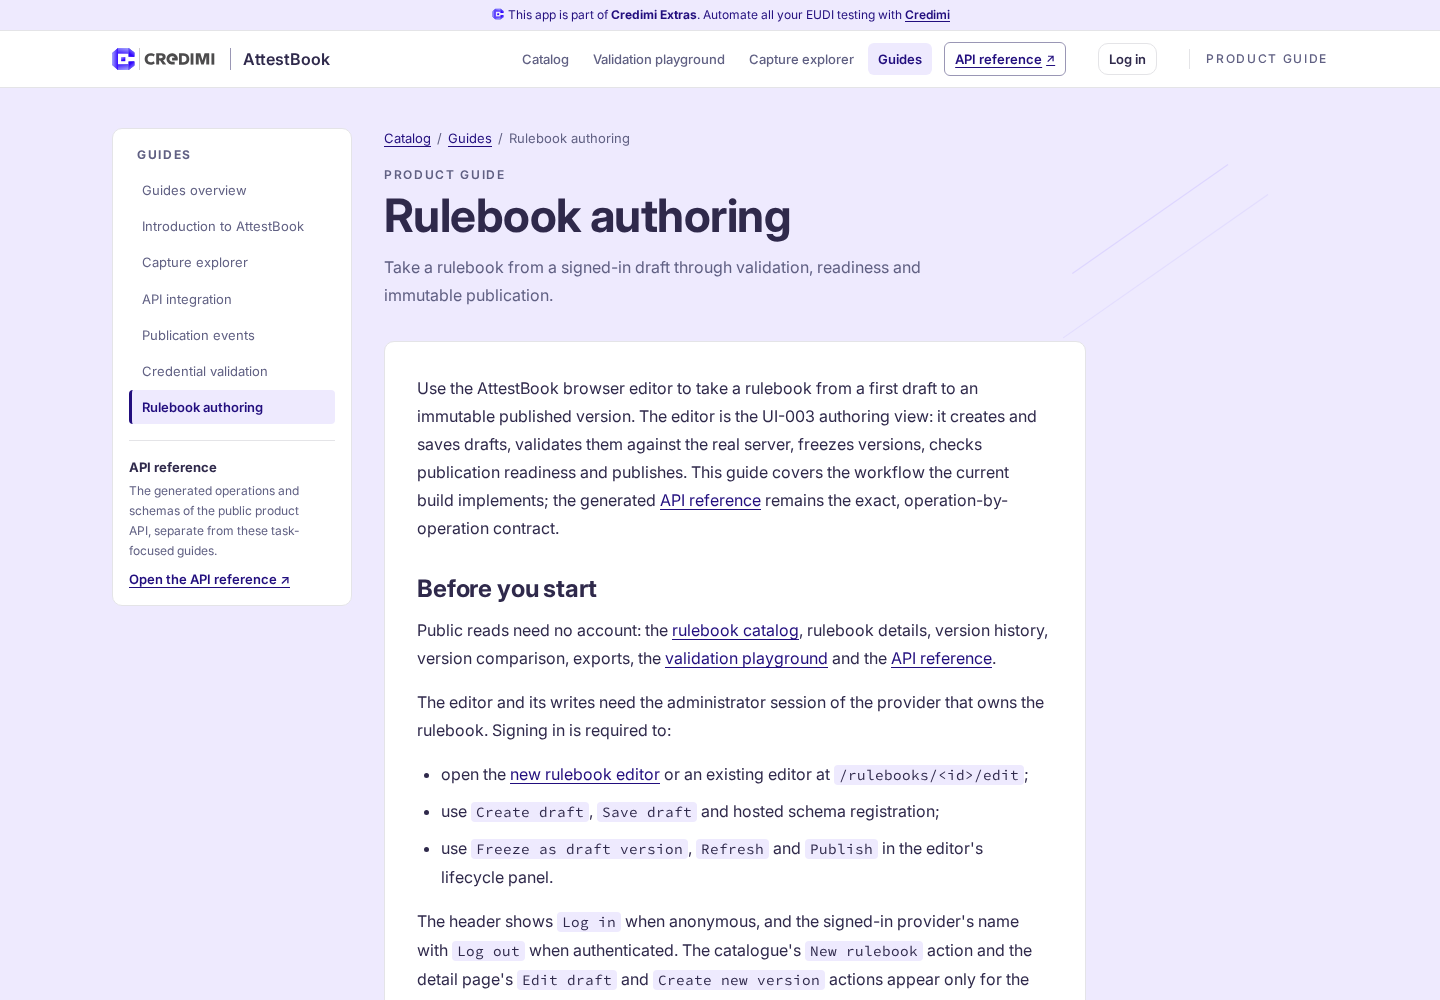
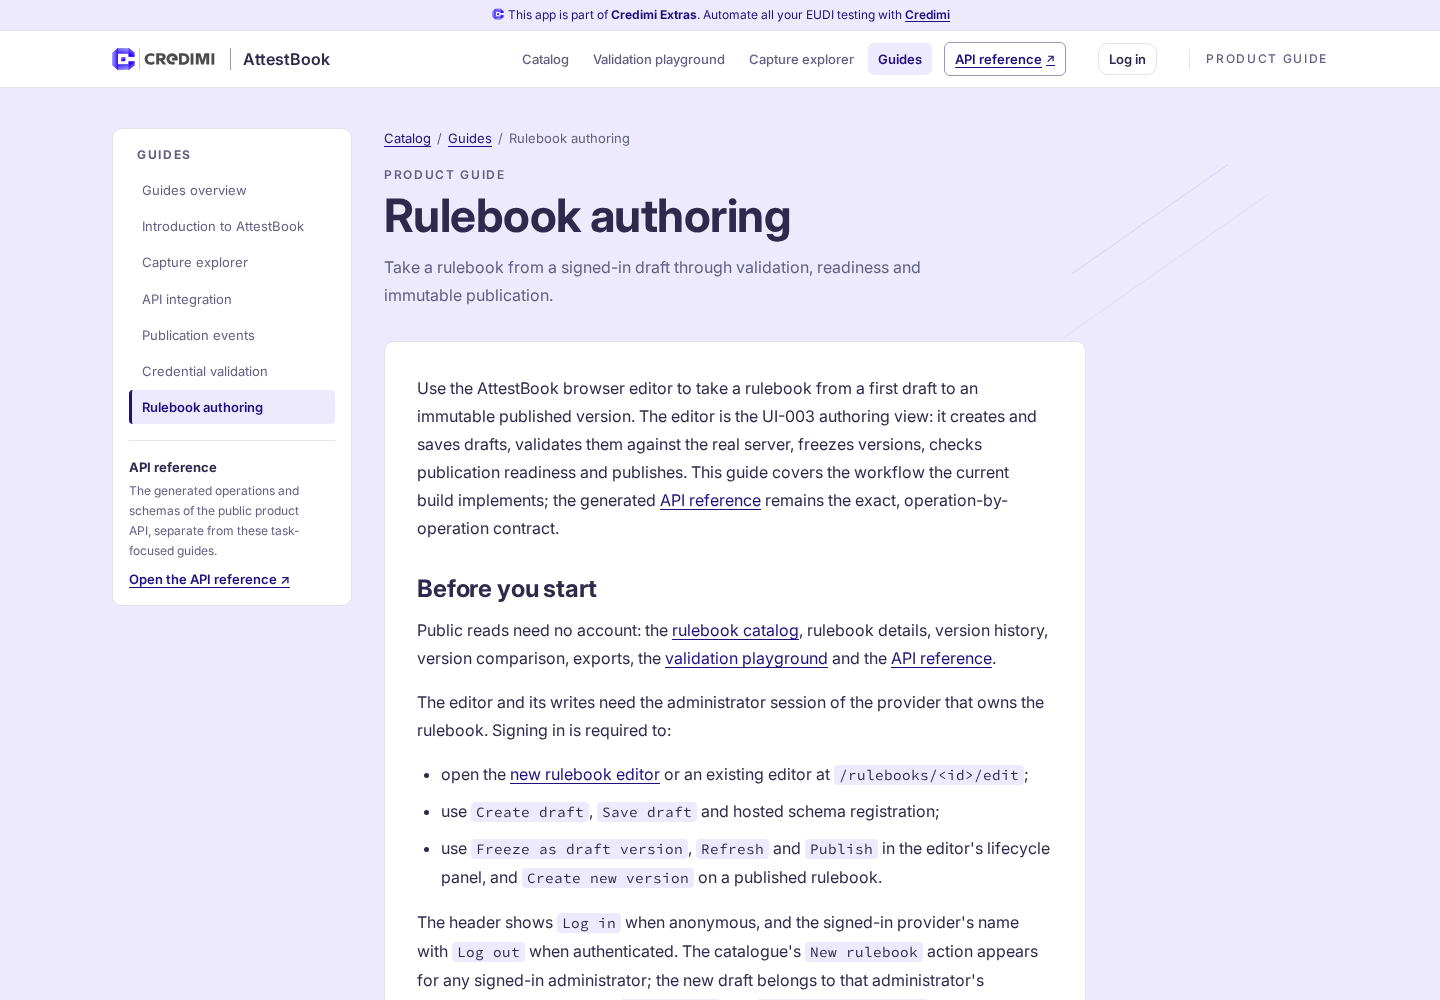
docs(guides): correct rulebook authoring access rules
The catalogue shows New rulebook to every signed-in administrator because a new draft takes its provider from the session; only Edit draft and Create new version depend on the owning provider. Fix the guide text, add regression assertions, and refresh the guide capture.

Changed region(s): [[0.2812, 0.868, 0.7188, 0.992], [0.6875, 0.837, 0.7188, 0.868]]

diff --git a/ui/src/guide.test.tsx b/ui/src/guide.test.tsx
@@ -679,6 +679,14 @@ describe('rulebook authoring guide', () => {
     // Published snapshots are immutable, and the guide does not claim conformance.
     expect(article as HTMLElement).toHaveTextContent(/immutable/)
     expect(article as HTMLElement).toHaveTextContent(/not a conformance claim/)
+    // A new draft belongs to the session's provider, so New rulebook is not
+    // restricted to the provider that owns an existing rulebook.
+    expect(article as HTMLElement).toHaveTextContent(
+      /New rulebook action appears for any signed-in administrator/,
+    )
+    expect(article as HTMLElement).not.toHaveTextContent(
+      /hidden for anonymous readers and for an administrator of another provider/,
+    )
     expect(document.title).toBe('Rulebook authoring · AttestBook')
   })
 })

diff --git a/docs/guides/rulebook-authoring.md b/docs/guides/rulebook-authoring.md
@@ -18,12 +18,13 @@ owns the rulebook. Signing in is required to:
   `/rulebooks/<id>/edit`;
 - use `Create draft`, `Save draft` and hosted schema registration;
 - use `Freeze as draft version`, `Refresh` and `Publish` in the editor's
-  lifecycle panel.
+  lifecycle panel, and `Create new version` on a published rulebook.
 
 The header shows `Log in` when anonymous, and the signed-in provider's name with
-`Log out` when authenticated. The catalogue's `New rulebook` action and the
-detail page's `Edit draft` and `Create new version` actions appear only for the
-administrator bound to the owning provider.
+`Log out` when authenticated. The catalogue's `New rulebook` action appears for
+any signed-in administrator; the new draft belongs to that administrator's
+provider. The detail page's `Edit draft` and `Create new version` actions
+appear only for the administrator bound to the provider that owns the rulebook.
 
 ## Sign in
 
@@ -51,8 +52,7 @@ different: it is an ownership refusal, not an expired session.
 ## Create a draft
 
 1. Sign in, open the [rulebook catalog](/) and choose `New rulebook`. The action
-   is hidden for anonymous readers and for an administrator of another provider;
-   the editor opens at `/rulebooks/new`.
+   is hidden for anonymous readers; the editor opens at `/rulebooks/new`.
 2. In **Rulebook metadata**, enter a required **Name** and **Applicable
    specification** (a new draft starts at `ts11@1.0.1`). **Description** and
    **Source URL** are optional. The source URL records provenance and is not
